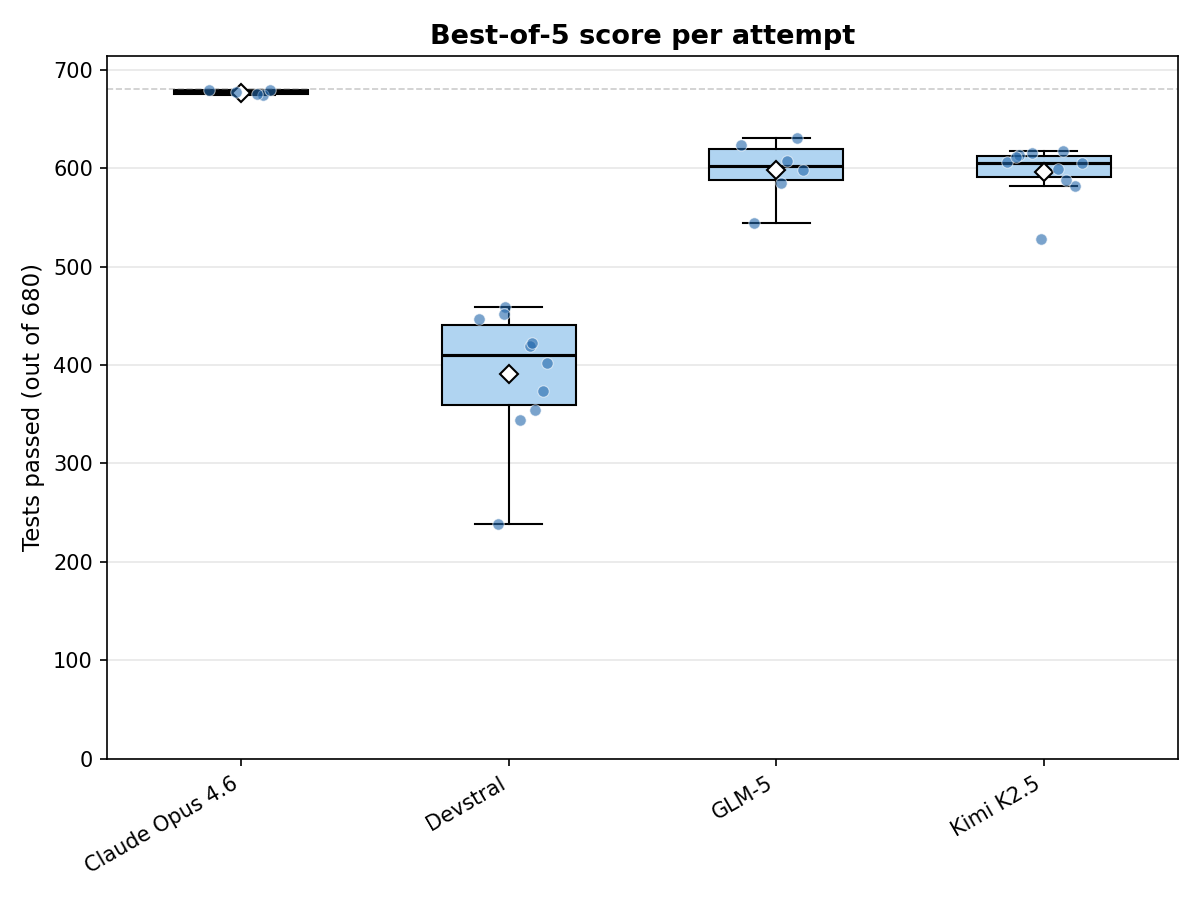
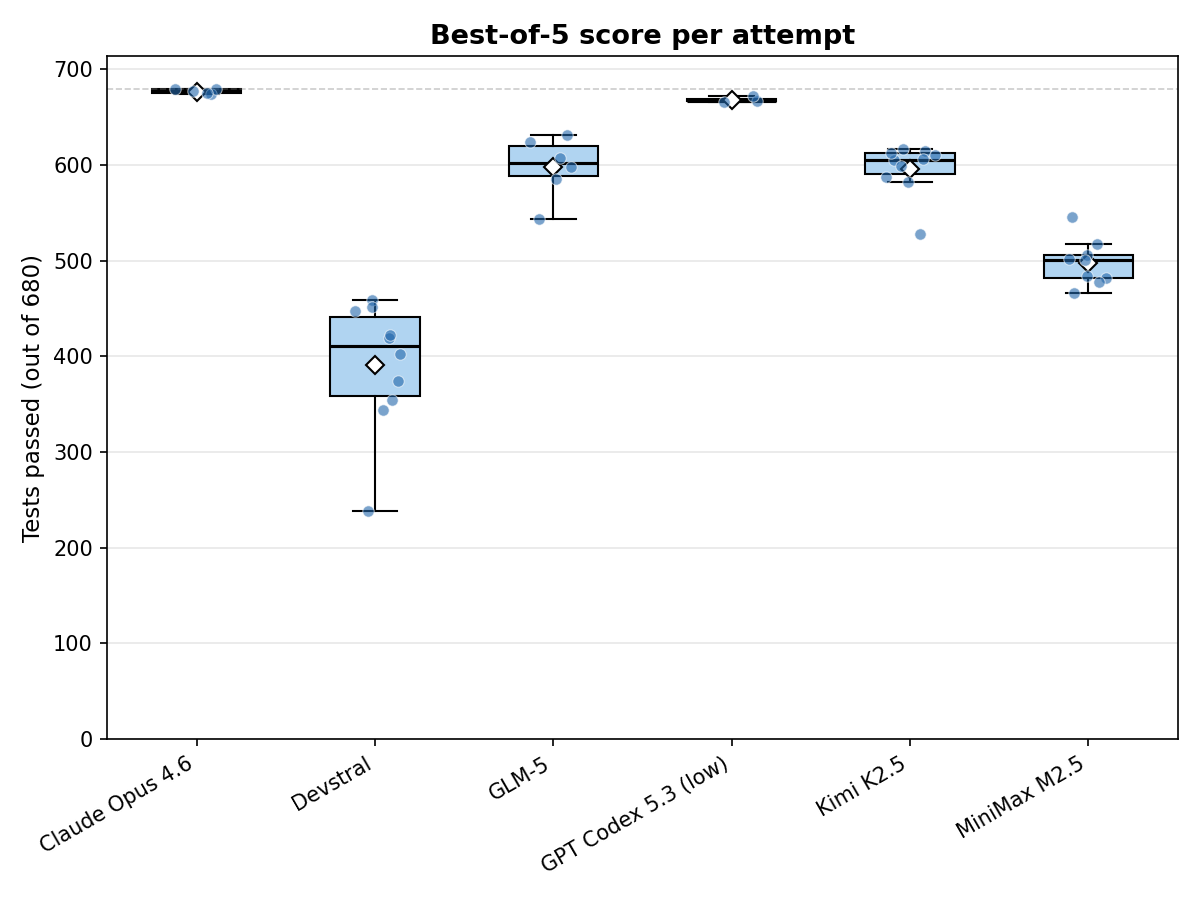
Add GPT Codex 5.3 (low) and MiniMax M2.5 toml-1.1-cpp results
## New results

- GPT Codex 5.3 (low reasoning) on toml-1.1-cpp: 3 valid attempts
  out of 5 (attempt 3 was partial at 648/680, attempt 4 failed with
  0/0 — both excluded). Mean best-of-5 98.28% (668.3/680). All
  first-turn scores are 0 (compilation failures, recovers within 5
  turns — same pattern as on toml-1.0-cpp). Very consistent across
  valid attempts (666–672 range).

- MiniMax M2.5 (minimax/MiniMax-M2.5) on toml-1.1-cpp: 9 valid
  attempts out of 10 (attempt 3 was 0/0 timeout, removed and
  renumbered). Mean best-of-5 73.24% (498.0/680). High variance:
  attempt 5 accepted everything (FP=466, TN=0), while best attempt
  reached 546/680 (80.3%). This is MiniMax's first appearance in
  the benchmark — accessed via OpenAI-compatible API at
  https://api.minimax.io/v1 through LiteLLM proxy.

## Updated toml-1.1-cpp leaderboard (best-of-5 mean, 6 models)

  1. Claude Opus 4.6     99.53%  676.8/680  (5 attempts)
  2. GPT Codex 5.3 (low) 98.28%  668.3/680  (3 attempts)
  3. GLM-5               87.97%  598.2/680  (6 attempts)
  4. Kimi K2.5           87.71%  596.4/680  (10 attempts)
  5. MiniMax M2.5        73.24%  498.0/680  (9 attempts)
  6. Devstral            57.51%  391.1/680  (10 attempts)

## Implementation notes

- MiniMax M2.5 is a 230B MoE model (10B active) with OpenAI-compatible
  API — works with validation_bench.py via --api-base or LiteLLM proxy
- GPT Codex 5.3 low: only 3 of 5 attempts usable; attempt 4 had a
[…]

diff --git a/results/STATUS.md b/results/STATUS.md
@@ -12,8 +12,9 @@ Target: 10 attempts per model per task.
 | Devstral             | 10/10        | 10/10        |
 | GLM-5                | 10/10        | 6/10         |
 | GPT Codex 5.3 (high) | 5/10        | --           |
-| GPT Codex 5.3 (low)  | 7/10        | --           |
+| GPT Codex 5.3 (low)  | 7/10        | 3/10         |
 | Kimi K2.5            | 10/10        | 10/10        |
+| MiniMax M2.5         | --           | 9/10         |
 | Qwen3.5-122B Q8      | 10/10        | --           |
 
 **Legend:** `N/10` = N attempts completed, `--` = not started
